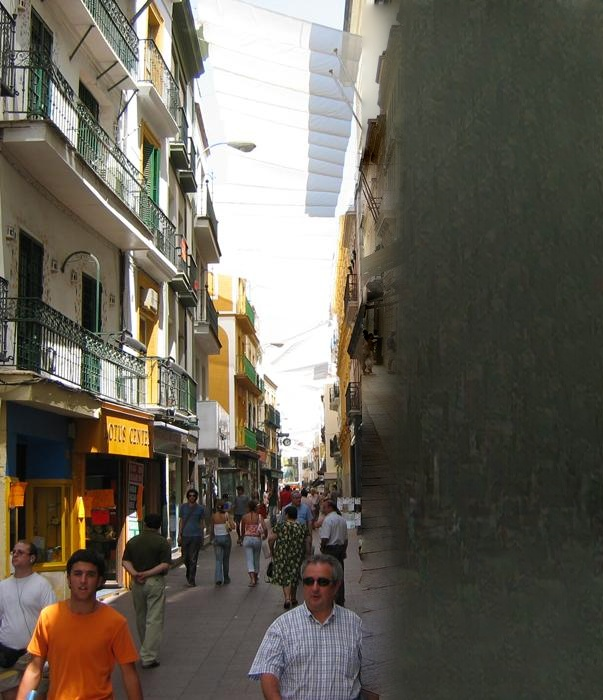
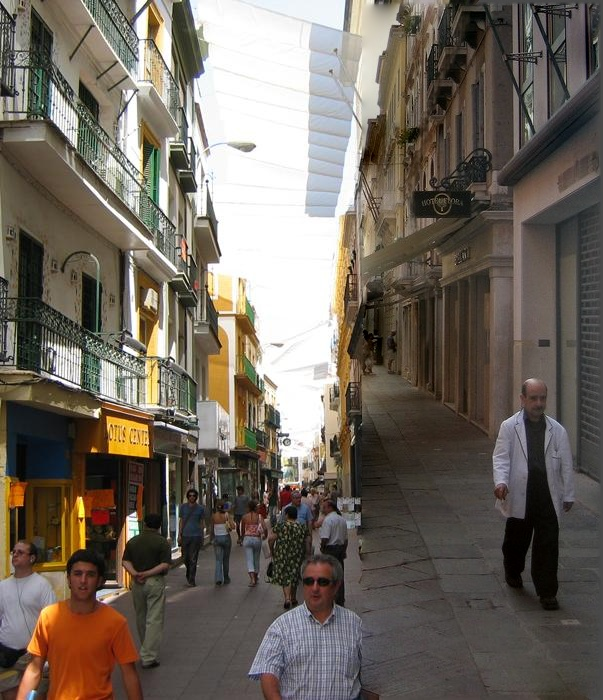
LaMa cleanup: seam-only ring, never along image edges
The solid/adaptive-margin region was far too aggressive: it repainted
the whole fill (up to 46% of the photo). Back to a thin ring that only
re-synthesises the visible paste transitions:

- ring hugs every paste boundary (hole rim + graph-cut seams), fixed
  12 px width via --lama-band
- ring segments along the image borders are dropped (_strip_image_edges):
  content running off the edge has no transition to hide
- degenerated seam cuts (flood fill swallowed the whole crop) scale back
  to the hole outline alone (_replaced_region)
- removed solid mode, --lama-ring and --lama-band-scale

Samples regenerated: rings of 14-21k px (was 166-262k), boundary
gradient energy drops on both healthy and degenerate seams.

Changed region(s): [[0.6269, 0.0, 1.0, 1.0]]

diff --git a/local_context_matching.py b/local_context_matching.py
@@ -462,83 +462,90 @@ def composite(orig: np.ndarray, com_scene: np.ndarray, mask: np.ndarray,
 # lama seam cleanup
 # ---------------------------------------------------------------------------
 
-def build_seam_band_mask(mask_seam: np.ndarray, band: int = 12,
-                         solid: bool = False) -> np.ndarray:
-    """Mask of the region handed to LaMa for re-synthesis.
+# fraction of the local context above which a seam cut is considered
+# degenerate (the flood fill swallowed the whole crop instead of cutting
+# a narrow band around the hole)
+DEGENERATE_SEAM_FRACTION = 0.85
+
+# pixels adjacent to the image border are never repainted: pasted content
+# that runs off the edge has no transition to hide there
+EDGE_MARGIN_PX = 8
+
+
+def build_seam_band_mask(mask_seam: np.ndarray, band: int = 12) -> np.ndarray:
+    """Thin ring straddling the boundary of the replaced region.
 
     ``mask_seam`` marks where match content was pasted over the original
-    (255 = replaced).
-
-    solid=False (ring): a band of ``band`` pixels straddling that boundary
-    (about half inside) -- LaMa only harmonises the paste transition.
-
-    solid=True: the entire replaced region, grown outward by ``band``
-    pixels -- a single filled mask so LaMa re-synthesises the whole fill.
+    (255 = replaced).  The visible paste seams live exactly on that
+    boundary, so the ring covers ``band`` pixels outside it and about half
+    that inside: enough for LaMa to re-synthesise the transition without
+    repainting the fill itself.
     """
     m = mask_seam if mask_seam.ndim == 2 else cv2.cvtColor(
         mask_seam.astype(np.uint8), cv2.COLOR_BGR2GRAY)
     m = ((m > 0) * 255).astype(np.uint8)
 
     k_out = 2 * band + 1                      # dilate radius ~ band
+    k_in = max(3, band | 1)                   # erode radius ~ band / 2
     outer = cv2.dilate(m, cv2.getStructuringElement(cv2.MORPH_ELLIPSE,
                                                     (k_out, k_out)))
-    if solid:
-        return (outer > 0).astype(np.uint8) * 255
-
-    k_in = max(3, band | 1)                   # erode radius ~ band / 2
     inner = cv2.erode(m, cv2.getStructuringElement(cv2.MORPH_ELLIPSE,
                                                    (k_in, k_in)))
     return ((outer > 0) & (inner == 0)).astype(np.uint8) * 255
 
 
-def _adaptive_band_width(mask_scene: np.ndarray, min_band: int = 12,
-                         scale: float = 0.25,
-                         max_band: int = 64) -> int:
-    """LaMa region margin grown with the size of the hole.
+def _replaced_region(seam_mask: np.ndarray,
+                     hole_mask: np.ndarray) -> np.ndarray:
+    """Boolean map of where match content replaced the photograph.
 
-    ``max(min_band, min(max_band, scale * hole bbox larger side))`` so
-    small holes keep the minimum width, mid-size holes grow proportionally
-    and pathologically large holes do not repaint the whole photograph.
+    Union of the seam cut and the hole -- unless the seam cut degenerated
+    (flood fill swallowed the whole context, making it cover nearly every
+    pixel).  In that case it carries no boundary information and the hole
+    outline alone is used instead.
     """
-    hole = mask_scene == 0
-    if not hole.any():
-        return int(min_band)
-    ys, xs = np.where(hole)
-    size = max(int(ys.max()) - int(ys.min()), int(xs.max()) - int(xs.min())) + 1
-    return int(np.clip(round(scale * size), int(min_band), int(max_band)))
+    seam = seam_mask > 0
+    if seam.mean() > DEGENERATE_SEAM_FRACTION:
+        return hole_mask == 0
+    return seam | (hole_mask == 0)
+
+
+def _strip_image_edges(mask: np.ndarray,
+                       margin: int = EDGE_MARGIN_PX) -> np.ndarray:
+    """Zero out a ``margin`` pixel frame at the image borders."""
+    m = mask.copy()
+    margin = max(0, min(int(margin), min(mask.shape[:2]) // 4))
+    m[:margin, :] = 0
+    m[mask.shape[0] - margin:, :] = 0
+    m[:, :margin] = 0
+    m[:, mask.shape[1] - margin:] = 0
+    return m
 
 
 def inpaint_seams_lama(stages: Dict[str, object], local_context_size: int = 55,
-                       band: int = 12, solid: bool = True,
-                       band_scale: float = 0.25) -> Tuple[np.ndarray, np.ndarray]:
+                       band: int = 12) -> Tuple[np.ndarray, np.ndarray]:
     """Clean up the composited output by inpainting its seams with LaMa.
 
-    The region handed to LaMa is derived from the pipeline's seam cut,
-    lifted back to full resolution coordinates; the result is feather-
-    blended into the output so pixels outside it stay exactly as they
-    were.  By default the region is the whole replaced area grown by an
-    adaptive margin (``band`` clamped between the minimum and
-    ``band_scale * hole size``, capped); with ``solid=False`` only a ring
-    around the paste boundary is repainted.
+    A thin ring straddling every paste boundary (hole rim and graph-cut
+    seams) is derived from the pipeline's seam cut, lifted back to full
+    resolution coordinates and handed to LaMa; the result is feather-
+    blended into the output so pixels outside the ring stay exactly as
+    they were.  Segments running along the image borders are ignored, and
+    a degenerated seam cut falls back to the hole outline.
 
     returns:
-    (cleaned output, full resolution lama mask)
+    (cleaned output, full resolution seam ring mask)
     """
     output = np.clip(stages["output"], 0, 255).astype(np.uint8)
     h, w = output.shape[:2]
 
-    # grow the width of the region with the size of the hole
-    band = _adaptive_band_width(stages["mask_scene"], band, band_scale)
-
-    # replaced content: seam-cut region plus the hole itself (the rim is
-    # always a material boundary, and this keeps the mask meaningful even
-    # when the seam cut degenerated into a solid mask_seam)
+    # replaced content: the seam cut plus the hole itself (its rim is the
+    # main material boundary between match content and the photograph);
+    # degenerated seam cuts are scaled back to the hole alone
     seam = stages["mask_seam"]
     if seam.ndim == 3:
         seam = cv2.cvtColor(seam.astype(np.uint8), cv2.COLOR_BGR2GRAY)
-    replaced = ((seam > 0) |
-                (stages["mask_scene"] == 0)).astype(np.uint8) * 255
-    band_scene = build_seam_band_mask(replaced, band, solid=solid)
+    replaced = _replaced_region(seam, stages["mask_scene"])
+    band_scene = build_seam_band_mask(replaced.astype(np.uint8) * 255, band)
 
     min_x, max_x, min_y, max_y = _context_bbox(stages["mask"],
                                                local_context_size)
@@ -551,20 +558,24 @@ def inpaint_seams_lama(stages: Dict[str, object], local_context_size: int = 55,
     band_full[min_x:min_x + rows, min_y:min_y + cols] = \
         band_scene[:rows, :cols]
 
+    # never repaint along the image borders: pasted content that runs off
+    # the edge has no transition to hide there
+    band_full = _strip_image_edges(band_full)
+
     if not (band_full > 0).any():
-        print("  LaMa: empty lama mask, skipping inpainting")
+        print("  LaMa: empty seam ring, skipping inpainting")
         return output, band_full
 
-    print(f"  LaMa: inpainting {'solid region' if solid else 'seam band'} "
-          f"({int((band_full > 0).sum())} px, margin {band} px)")
+    print(f"  LaMa: inpainting seam ring "
+          f"({int((band_full > 0).sum())} px, width {band} px)")
     cleaned = lama_inpaint.lama_inpaint(output, band_full)
     if cleaned is None:
         return output, band_full
 
     # feathered blend: untouched pixels stay bit-exact, only the masked
-    # region is replaced by the inpainted content.  The transition is kept
-    # strictly inside the grown margin: blur an eroded copy so alpha fades
-    # out before reaching the mask edge, and clamp it to zero elsewhere.
+    # ring is replaced by the inpainted content.  The transition is kept
+    # strictly inside the ring: blur an eroded copy so alpha fades out
+    # before reaching the mask edge, and clamp it to zero elsewhere.
     feather = 2 * min(max(3, band // 2), 32) + 1
     inner = cv2.erode(band_full, cv2.getStructuringElement(
         cv2.MORPH_ELLIPSE, (feather, feather)))
@@ -585,16 +596,13 @@ def scene_completion_pipeline(orig_name: str, mask_name: str, match_name: str,
                               local_context_size: int = 55,
                               dilation: bool = True,
                               lama: bool = True,
-                              lama_band: int = 12,
-                              lama_solid: bool = True,
-                              lama_band_scale: float = 0.25) -> Dict[str, object]:
+                              lama_band: int = 12) -> Dict[str, object]:
     """Run the full pipeline and return every intermediate stage.
 
     When ``lama`` is true the composited output gets a final pass in which
-    the pasted region is re-synthesised with LaMa inpainting.  The region
-    is grown by ``max(lama_band, lama_band_scale * hole size)`` pixels;
-    with ``lama_solid`` it is a filled region covering the whole fill,
-    otherwise just a ring around the paste boundary.
+    a thin ring along the paste boundaries (hole rim and graph-cut seams)
+    is re-synthesised with LaMa inpainting; ``lama_band`` is the ring
+    width in pixels.  Ring segments along the image borders are ignored.
     """
     orig, mask, match = read_images(orig_name, mask_name, match_name)
     orig_scene, mask_scene, orig_scene_no_mask, dialation_mask = get_masked_scene(
@@ -632,8 +640,7 @@ def scene_completion_pipeline(orig_name: str, mask_name: str, match_name: str,
 
     if lama:
         output_lama, seam_band_mask = inpaint_seams_lama(
-            stages, local_context_size, lama_band,
-            solid=lama_solid, band_scale=lama_band_scale)
+            stages, local_context_size, lama_band)
         stages["seam_band_mask"] = seam_band_mask
         stages["output_lama"] = output_lama
 
@@ -645,9 +652,7 @@ def local_context_match(orig_name: str, mask_name: str, match_name: str,
                         method: str = 'seamlessclone',
                         dilation: bool = True,
                         lama: bool = True,
-                        lama_band: int = 12,
-                        lama_solid: bool = True,
-                        lama_band_scale: float = 0.25) -> np.ndarray:
+                        lama_band: int = 12) -> np.ndarray:
     """Complete the ``mask_name`` region of ``orig_name`` using ``match_name``.
 
     Sample usage::
@@ -656,9 +661,7 @@ def local_context_match(orig_name: str, mask_name: str, match_name: str,
     """
     stages = scene_completion_pipeline(orig_name, mask_name, match_name,
                                        local_context_size, dilation,
-                                       lama=lama, lama_band=lama_band,
-                                       lama_solid=lama_solid,
-                                       lama_band_scale=lama_band_scale)
+                                       lama=lama, lama_band=lama_band)
     return stages.get("output_lama", stages["output"])
 
 
@@ -706,14 +709,8 @@ def main(argv: Optional[List[str]] = None) -> int:
     parser.add_argument("--no-lama", action="store_true",
                         help="skip the final LaMa seam inpainting pass")
     parser.add_argument("--lama-band", type=int, default=12,
-                        help="minimum width in pixels of the LaMa region margin "
-                             "(default 12)")
-    parser.add_argument("--lama-band-scale", type=float, default=0.25,
-                        help="margin growth per pixel of hole size; the margin is "
-                             "max(--lama-band, scale * hole side) (default 0.25)")
-    parser.add_argument("--lama-ring", action="store_true",
-                        help="only repaint a ring around the paste boundary "
-                             "instead of the whole filled region")
+                        help="width in pixels of the seam ring repainted by "
+                             "LaMa (default 12)")
     parser.add_argument("--save-dir", default="output",
                         help="where to write the result and diagnostics")
     parser.add_argument("--quiet", action="store_true",
@@ -743,9 +740,7 @@ def main(argv: Optional[List[str]] = None) -> int:
     stages = scene_completion_pipeline(args.image, args.mask, match_name,
                                        args.context_size,
                                        lama=not args.no_lama,
-                                       lama_band=args.lama_band,
-                                       lama_solid=not args.lama_ring,
-                                       lama_band_scale=args.lama_band_scale)
+                                       lama_band=args.lama_band)
     save_stages(stages, args.save_dir)
     print(f"wrote {os.path.join(args.save_dir, 'output.jpg')}")
     if "output_lama" in stages:

diff --git a/tests/test_local_context_matching.py b/tests/test_local_context_matching.py
@@ -142,36 +142,43 @@ def test_build_seam_band_mask_is_a_boundary_ring():
     assert (g > 0).sum() < 0.25 * g.size
 
 
-def test_build_seam_band_mask_solid_fills_region():
-    """Solid mode must cover the whole replaced region plus its margin."""
-    replaced = np.zeros((100, 100), np.uint8)
-    replaced[30:70, 35:65] = 255
+def test_replaced_region_scales_back_degenerate_seam():
+    """A seam cut that swallowed the whole crop falls back to the hole."""
+    hole = np.full((100, 100), 255, np.uint8)
+    hole[30:70, 35:65] = 0
 
-    solid = lcm.build_seam_band_mask(replaced, band=6, solid=True)
+    # healthy seam cut: union of seam and hole
+    seam = np.zeros((100, 100), np.uint8)
+    seam[30:70, 35:65] = 255
+    seam[10:20, 50] = 255                       # a seam path in the context
+    replaced = lcm._replaced_region(seam, hole)
+    assert replaced[15, 50]                     # seam path included
+    assert replaced[50, 50] and not replaced[29, 50]
 
-    assert solid.shape == (100, 100)
-    assert (solid[30:70, 35:65] == 255).all()   # interior fully covered
-    assert solid[29, 50] == 255                 # margin grown outside
-    assert solid[71, 50] == 255
-    assert solid[22, 50] == 0                   # beyond ~band: untouched
-    assert solid[2, 2] == 0
+    # degenerate seam cut: nearly every pixel marked -- carries no
+    # boundary information, so only the hole is used
+    solid_seam = np.full((100, 100), 255, np.uint8)
+    replaced = lcm._replaced_region(solid_seam, hole)
+    assert replaced[50, 50]                     # hole still replaced
+    assert not replaced[10, 10]                 # context no longer included
 
 
-def test_adaptive_band_width_grows_with_hole_size():
-    small = np.full((200, 200), 255, np.uint8)
-    small[90:110, 90:110] = 0                       # 20 px hole
-    assert lcm._adaptive_band_width(small, min_band=12,
-                                    scale=0.25) == 12   # clamped to minimum
+def test_strip_image_edges_clears_border_frame():
+    """Ring segments along the image borders must never be repainted."""
+    mask = np.zeros((60, 80), np.uint8)
+    mask[5:55, 5:75] = 255
+    mask[0:2, :] = 255                          # touches all four borders
+    mask[-2:, :] = 255
+    mask[:, 0:2] = 255
+    mask[:, -2:] = 255
 
-    big = np.full((400, 400), 255, np.uint8)
-    big[100:300, 150:250] = 0                       # 200 px hole
-    assert lcm._adaptive_band_width(big, min_band=12,
-                                    scale=0.25) == 50   # 0.25 * 200
+    stripped = lcm._strip_image_edges(mask, margin=4)
 
-    huge = np.full((1000, 1000), 255, np.uint8)
-    huge[100:900, 100:900] = 0                      # 800 px hole
-    assert lcm._adaptive_band_width(huge, min_band=12,
-                                    scale=0.25) == 64   # clamped to maximum
+    assert (stripped[:4, :] == 0).all()
+    assert (stripped[-4:, :] == 0).all()
+    assert (stripped[:, :4] == 0).all()
+    assert (stripped[:, -4:] == 0).all()
+    assert stripped[30, 40] == 255              # interior untouched
 
 
 # ---------------------------------------------------------------------------

diff --git a/README.md b/README.md
@@ -76,10 +76,8 @@ uv run python local_context_matching.py \
 Every intermediate stage (context windows, best match, seam mask, composites,
 final output) is written to `--save-dir`. The last stage written,
 `output_lama.jpg`, is the final output after the LaMa seam cleanup pass.
-Pass `--no-lama` to skip it entirely, `--lama-ring` to only repaint a ring
-around each paste boundary instead of the whole filled region, `--lama-band N`
-to change the minimum margin (default 12), or `--lama-band-scale F` to change
-how the margin grows with hole size (default 0.25, capped at 64 px).
+Pass `--no-lama` to skip it entirely, or `--lama-band N` to change the width
+of the seam ring repainted by LaMa (default 12 px).
 
 ### LaMa seam inpainting
 
@@ -88,14 +86,19 @@ content is pasted over the original photo. [`lama_inpaint.py`](lama_inpaint.py)
 removes these artefacts with [LaMa](https://github.com/advimman/lama) running
 through OpenCV's DNN module:
 
-1. a **solid region mask** is built from the seam cut — the entire replaced
-   area (hole + seams), grown outward by an adaptive margin of
-   `max(12 px, min(64 px, 0.25 × hole side))`, so LaMa re-synthesises the
-   whole fill rather than just harmonising its edges,
-2. a padded window around that region is resampled to the network's fixed
-   512x512 input, inpainted in one pass, and resampled back at full resolution
-   — much sharper than squashing the whole photograph to 512x512,
-3. the result is feather-blended strictly inside the region mask, so pixels
+1. a thin **seam ring** is derived from the seam cut — `band` pixels
+   straddling every paste boundary (the hole rim plus each graph-cut
+   seam), so LaMa re-synthesises only the visible transition and leaves
+   the matched fill itself untouched,
+2. segments running along the image borders are dropped — pasted content
+   that runs off the edge has no transition to hide there — and a
+   degenerated seam cut (flood fill swallowed the whole context) falls
+   back to the hole outline alone,
+3. a padded window around the ring is resampled to the network's fixed
+   512x512 input, inpainted in one pass, and resampled back at full
+   resolution — much sharper than squashing the whole photograph to
+   512x512,
+4. the result is feather-blended strictly inside the ring, so pixels
    outside it remain bit-identical to the raw composite.
 
 The weights live in [`models/lama.onnx`](models/lama.onnx) and are tracked with
@@ -132,9 +135,10 @@ uv run jupyter lab
 | `create_seam_cut` | four minimum-cost seams around the hole via `skimage.graph.MCP`, closed by flood fill |
 | `composite_scene` | merge match into original via `paste`, feathered `alphablend`, or Poisson `seamlessclone` |
 | `composite` | paste the completed context back into the full size image |
-| `build_seam_band_mask` | ring or solid LaMa region derived from the pasted (match) area |
-| `_adaptive_band_width` | region margin from hole size, clamped between min and cap |
-| `inpaint_seams_lama` | re-synthesise the fill with LaMa and feather-blend it back |
+| `build_seam_band_mask` | thin ring straddling the boundary of the pasted (match) region |
+| `_replaced_region` | replaced-area map; degenerated seam cuts fall back to the hole |
+| `_strip_image_edges` | drops mask pixels along the image borders |
+| `inpaint_seams_lama` | re-synthesise the paste seams with LaMa and feather-blend them back |
 | `local_context_match` / `scene_completion_pipeline` | run everything end to end |
 
 `lama_inpaint.py` wraps the ONNX model itself: lazy single load of the network,
